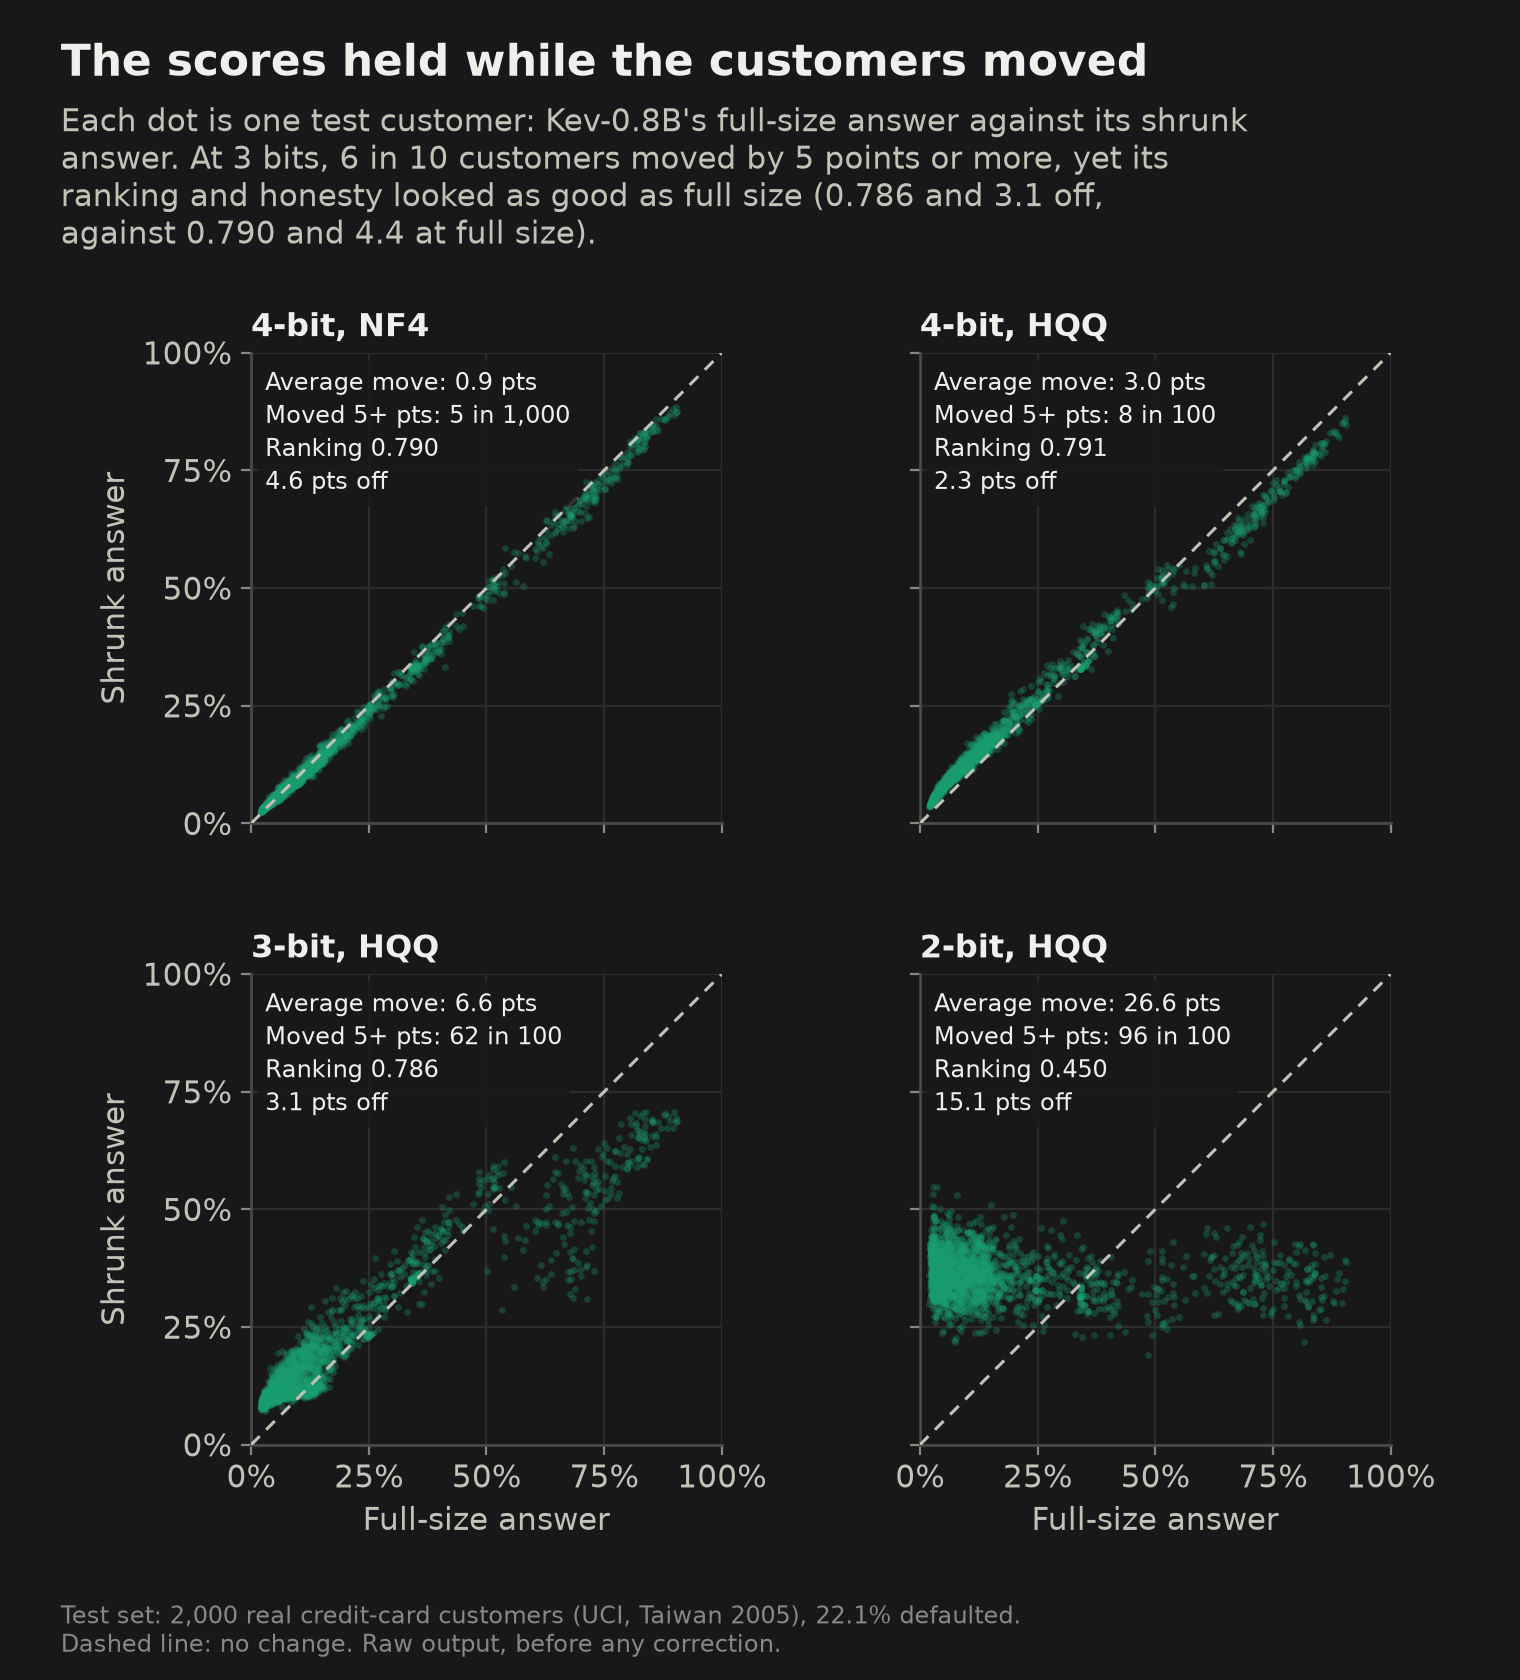
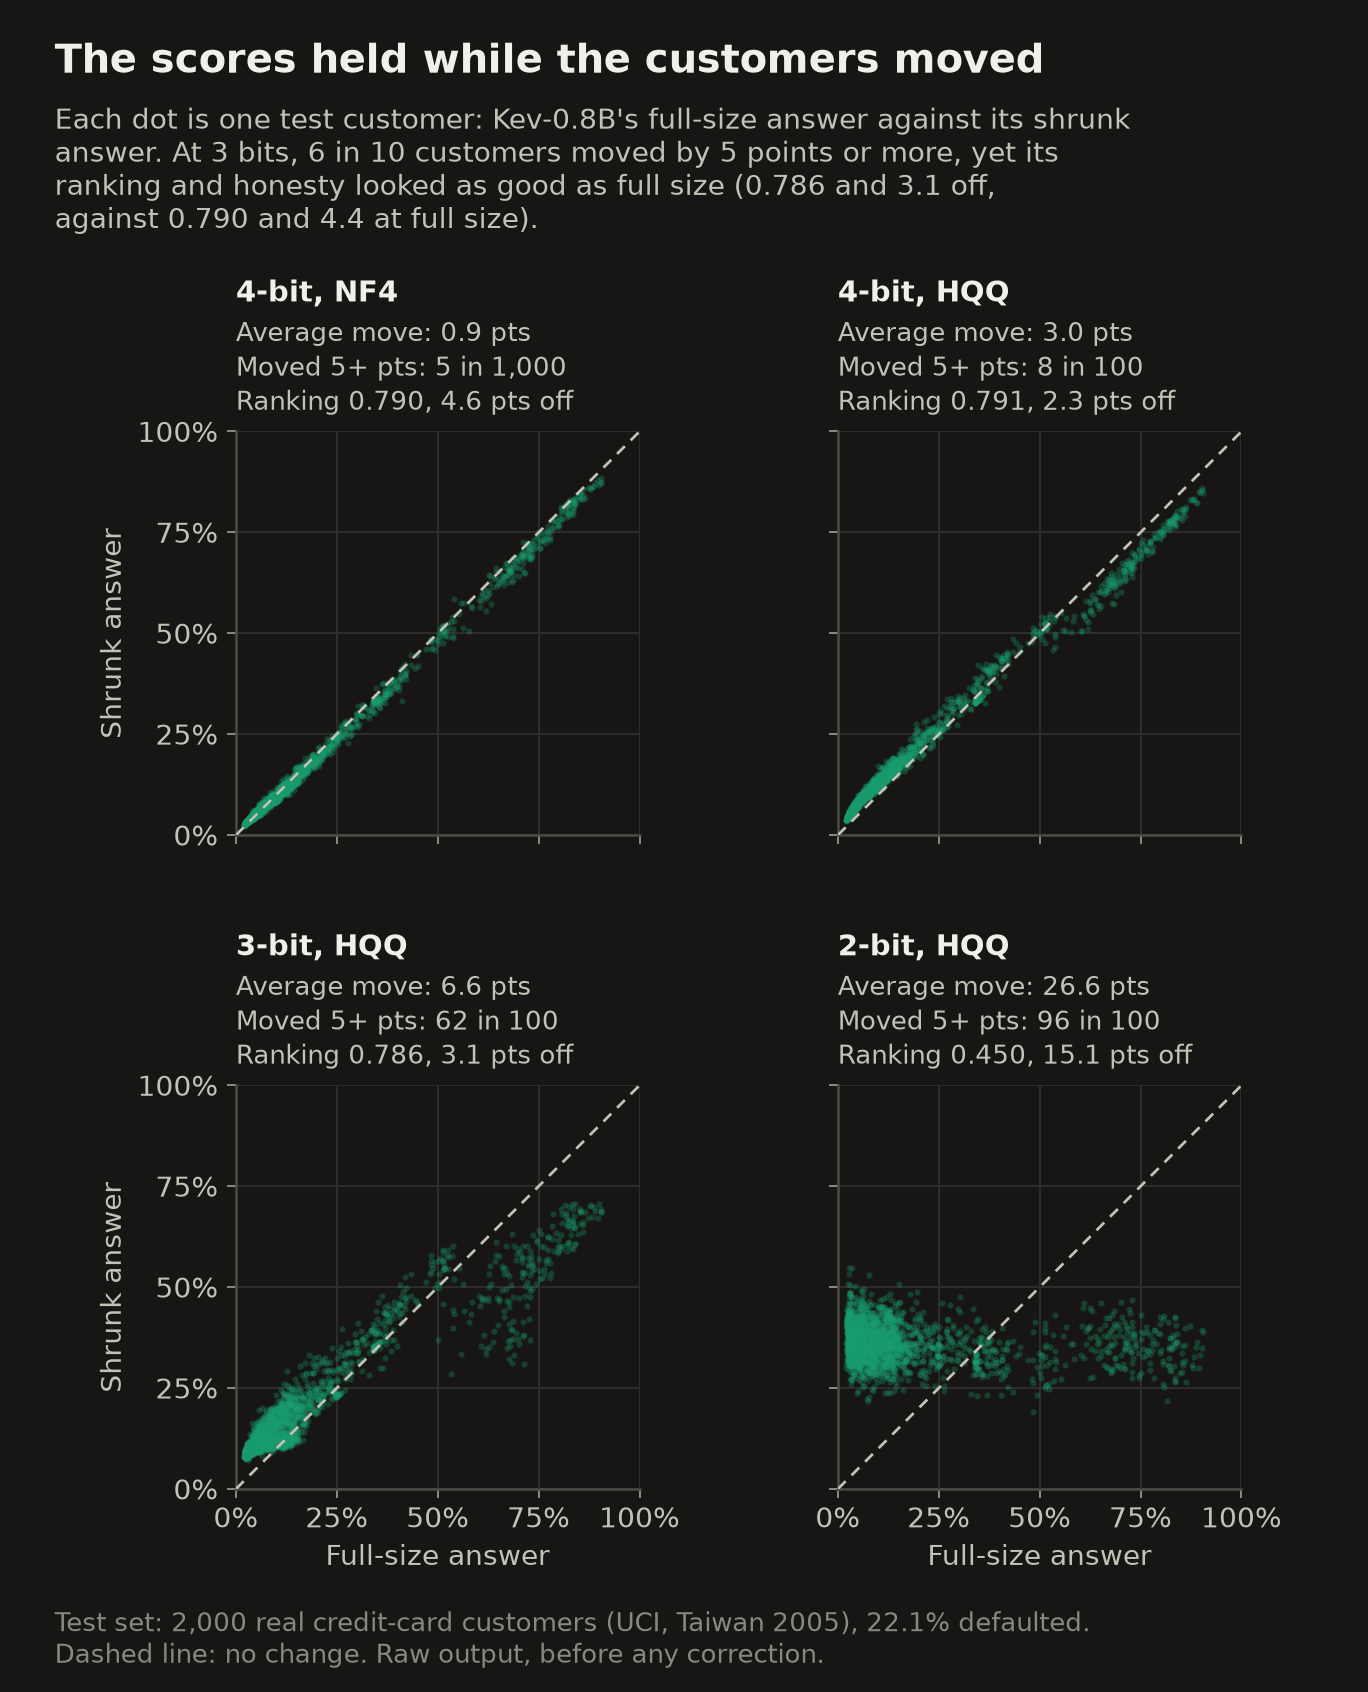
Publish post 4: I shrank AI models. It saved memory, not time.
From the review copy (version 2.1): _posts/2026-11-27-shrinking-ai-models.md
with the charts redrawn for the new design, its social card, contents list and
a drawing (scripts/drawings.py). The review URL now redirects to the post, and
post 3's closing line links to it. Chart sizes updated (scripts/chart_sizes.py).

diff --git a/review/shrinking-ai-models.html b/review/shrinking-ai-models.html
@@ -1,0 +1,18 @@
+---
+layout: null
+permalink: /review/shrinking-ai-models/
+sitemap: false
+---
+<!doctype html>
+<html lang="en">
+<head>
+<meta charset="utf-8">
+<title>Moved: I shrank AI models. It saved memory, not time.</title>
+<link rel="canonical" href="{{ '/2026/11/27/shrinking-ai-models/' | absolute_url }}">
+<meta name="robots" content="noindex">
+<meta http-equiv="refresh" content="0; url=/2026/11/27/shrinking-ai-models/">
+</head>
+<body>
+<p>The review draft is now published: <a href="/2026/11/27/shrinking-ai-models/">I shrank AI models. It saved memory, not time.</a></p>
+</body>
+</html>

diff --git a/_posts/2026-11-27-shrinking-ai-models.md b/_posts/2026-11-27-shrinking-ai-models.md
@@ -1,25 +1,14 @@
 ---
 layout: post
 title: "I shrank AI models. It saved memory, not time."
-date: 2026-11-26
+date: 2026-11-27 12:00:00 +0530
 tags: [probability]
-permalink: /review/shrinking-ai-models/
 description: "I squeezed three trained AI models down to 8, 4, 3 and 2 bits. Their percentages held up to 4 bits. Shrinking saved memory, but rarely time."
-# Review copy: not listed on the home page or in the feed, hidden from search engines and the
-# sitemap, with Hypothesis for comments. To launch, move it to _posts/ and drop these four.
-noindex: true
-sitemap: false
-hypothesis: true
-comments: false
+image: /public/images/shrinking-ai-models/social-card.png
+image_alt: "I shrank AI models. It saved memory, not time. Memory at peak and time per answer, full size against 4 bits (HQQ on GemLite) on a tuned GPU: Kev-4B 8.9 to 3.8 GB and 93 to 83 ms, Kev-0.8B 1.7 to 1.0 GB and 20 to 24 ms, Qwen3.5-4B 8.7 to 3.6 GB and 78 to 85 ms."
+toc: true
+icon: /public/drawings/20261008-171552.jpg
 ---
-
-> **Draft for review, version 2.1 (27 November), not yet published.** Thank you for reading. This is the fourth post in the series, after [Can AI know when it's wrong?](/2026/11/23/can-ai-know-when-its-wrong/), [Why 99% accuracy can still be a disaster](/2026/11/24/why-99-percent-accuracy/) and [I gave AI the same data as a bank's model](/2026/11/25/fair-fight/). It takes the three models trained in the last post and shrinks them to save memory, then checks whether their percentages still come true.
->
-> **New in version 2:** the speed section is re-run on a properly tuned GPU, with two faster 4-bit routes and FP8, and has a new title and chart. The lending-decision table now compares every version at the full-size model's cut-off, and changes in honesty now come with a test of whether they're bigger than chance. Version 2.1 corrects one row of the lending table: running the same model twice changes 0.2% to 1.5% of decisions, depending on the model.
->
-> **To comment, no account needed:** reply to my message and quote the sentence you mean. If you already use [Hypothesis](https://web.hypothes.is/), you can also select text and click **Annotate**.
->
-> I'd most like to know: does the headline ("it saved memory, not time") feel fair given the details, does the section on customers moving while the scores held make sense and matter to you, would you act on the bank advice, and where did you get lost or bored?
 
 *Three trained models, squeezed to 8, 4, 3 and 2 bits. Their percentages held up to 4 bits, but the summary scores hid how far each customer's number moved. And even on a tuned GPU, the smaller models were rarely faster.*
 
@@ -39,7 +28,7 @@ This series checks something else: whether a model's percentages come true. In [
 
 Each small block of numbers gets its own scale, so even at 2 bits the four values differ from block to block. The scales take space too, and some parts of each model stay full size, mostly the table that turns words into numbers. That's why 4 bits saves less than three-quarters of the memory.
 
-![Each trained model's ranking (AUC) at each size. Kev-4B, Kev-0.8B and Qwen3.5-4B stay between 0.780 and 0.792 from full size down to 4 bits, with either tool, all within 0.005 of their full-size scores and above the scorecard's 0.777. At 3 bits, Kev-0.8B (0.786) and Qwen (0.779) show no drop the test can detect and Kev-4B slips to 0.776. At 2 bits, Kev-4B falls to 0.60, Kev-0.8B to 0.45 and Qwen to 0.43, the last two worse than a coin flip.](/public/images/shrinking-ai-models/post4_ranking.png){: data-dark-src="/public/images/shrinking-ai-models/post4_ranking-dark.png"}
+{% include chart.html src="/public/images/shrinking-ai-models/post4_ranking.png" alt="Each trained model's ranking (AUC) at each size." words="Kev-4B, Kev-0.8B and Qwen3.5-4B stay between 0.780 and 0.792 from full size down to 4 bits, with either tool, all within 0.005 of their full-size scores and above the scorecard's 0.777. At 3 bits, Kev-0.8B (0.786) and Qwen (0.779) show no drop the test can detect and Kev-4B slips to 0.776. At 2 bits, Kev-4B falls to 0.60, Kev-0.8B to 0.45 and Qwen to 0.43, the last two worse than a coin flip." eager=true %}
 
 ## Three models, six versions
 
@@ -66,7 +55,7 @@ The chart above tells it:
 
 Ranking is half the job. The other half is whether a model's percentages come true. I measure that as before: the average gap, in percentage points, between the risk a model promised and what happened ([calibration error](https://scikit-learn.org/stable/modules/calibration.html)). With 2,000 customers, a perfectly honest model stays below about 2.5 points in 95 samples out of 100. To tell whether shrinking changed a model's honesty, I compared each shrunk version with its full size on the same customers, again allowing for the 15 comparisons.
 
-![Calibration error at each size, in points. At full size Kev-0.8B is 4.4 points off, Kev-4B 3.8 and Qwen3.5-4B 2.4. At 8 bits and 4-bit NF4, each stays within half a point of that. At 4-bit HQQ, Kev-0.8B improves to 2.3, the only change above 2 bits bigger than chance; Kev-4B is 3.1 and Qwen 3.2. At 3 bits, Kev-4B is 4.8, Kev-0.8B 3.1 and Qwen 1.5. At 2 bits all three are off the scale: Kev-0.8B 15, Kev-4B 20 and Qwen 46 points off.](/public/images/shrinking-ai-models/post4_honesty.png){: data-dark-src="/public/images/shrinking-ai-models/post4_honesty-dark.png"}
+{% include chart.html src="/public/images/shrinking-ai-models/post4_honesty.png" alt="Calibration error at each size, in points." words="At full size Kev-0.8B is 4.4 points off, Kev-4B 3.8 and Qwen3.5-4B 2.4. At 8 bits and 4-bit NF4, each stays within half a point of that. At 4-bit HQQ, Kev-0.8B improves to 2.3, the only change above 2 bits bigger than chance; Kev-4B is 3.1 and Qwen 3.2. At 3 bits, Kev-4B is 4.8, Kev-0.8B 3.1 and Qwen 1.5. At 2 bits all three are off the scale: Kev-0.8B 15, Kev-4B 20 and Qwen 46 points off." %}
 
 - **8 bits and 4-bit NF4 changed almost nothing.** Every model stayed within half a point of its full-size honesty.
 - **4-bit HQQ made one model more honest, by more than chance.** Kev-0.8B went from 4.4 points off to 2.3. Shrinking nudged its average answer up from 18.1% to 19.9%, toward the 22.1% who actually defaulted (the last post found Kev understates risk). Nobody chose that direction: it's a side effect of rounding. For scale, retraining Kev-0.8B from a different random start in the last post gave an average of 20.0% and 3.0 points off, much the same.
@@ -80,7 +69,7 @@ One twist at 2 bits. Apply the same correction as in the last post, learned from
 
 So far, so reassuring, at least down to 4 bits. But ranking and calibration error are summary scores, and summaries can hide a lot, the way a compressed photo looks fine from across the room. Here is each test customer's answer from Kev-0.8B, full size against shrunk:
 
-![Each dot is one test customer: Kev-0.8B's full-size answer against its shrunk answer, in four panels. At 4-bit NF4 the dots hug the no-change line: the average customer moved 0.9 points and 5 in 1,000 moved 5 points or more. At 4-bit HQQ, 3.0 points, and 8 in 100 moved 5 or more. At 3 bits, 6.6 points, and 62 in 100 moved 5 or more, with low answers pushed up and high answers pulled down, yet ranking 0.786 and 3.1 points off, against 0.790 and 4.4 at full size. At 2 bits the dots form a flat band between about 20% and 55% whatever the full-size answer, 26.6 points on average.](/public/images/shrinking-ai-models/post4_drift.png){: data-dark-src="/public/images/shrinking-ai-models/post4_drift-dark.png"}
+{% include chart.html src="/public/images/shrinking-ai-models/post4_drift.png" alt="Each dot is one test customer: Kev-0.8B's full-size answer against its shrunk answer, in four panels." words="At 4-bit NF4 the dots hug the no-change line: the average customer moved 0.9 points and 5 in 1,000 moved 5 points or more. At 4-bit HQQ, 3.0 points, and 8 in 100 moved 5 or more. At 3 bits, 6.6 points, and 62 in 100 moved 5 or more, with low answers pushed up and high answers pulled down, yet ranking 0.786 and 3.1 points off, against 0.790 and 4.4 at full size. At 2 bits the dots form a flat band between about 20% and 55% whatever the full-size answer, 26.6 points on average." %}
 
 - **At 4-bit NF4, the answers barely moved:** less than a point for the average customer.
 - **At 3 bits, 6 in 10 customers' answers moved by 5 points or more.** Yet Kev-0.8B's ranking (0.786) and calibration error (3.1 points off) looked as good as at full size. Its safest customers were pushed up and its riskiest pulled down: the answers were squeezed toward the middle, mostly in the same order, with the average still roughly right.
@@ -119,7 +108,7 @@ So I rented the GPU again and set it up the way you would before deploying:
 - **The same 4-bit HQQ numbers on two faster routes:** GemLite, a library built for fast low-bit maths, and PyTorch's own 4-bit route.
 - **FP8,** where the GPU does its arithmetic in 8 bits, not just stores the numbers that way. The L4 has hardware for it, and it needs no data either.
 
-![GPU memory at peak and time per answer, one customer at a time, on the tuned setup. Memory: the 4B models need 8.7 to 8.9 GB at full size and 3.5 to 3.9 GB at 4 bits; Kev-0.8B 1.7 GB and about 1 GB; Qwen with FP8 5.1 GB. Time per answer at full size: 20 ms for Kev-0.8B, 93 for Kev-4B and 78 for Qwen, down from 62, 111 and 120 in my first runs. 4-bit NF4: 23, 131 and 109 ms, down from 81, 139 and 152. 4-bit HQQ on GemLite: 24, 83 and 85 ms. On PyTorch's 4-bit route: 39 ms for Kev-0.8B and 242 for Kev-4B; Qwen wouldn't load. FP8: 77 ms for Qwen; both Kev models gave no answers.](/public/images/shrinking-ai-models/post4_cost.png){: data-dark-src="/public/images/shrinking-ai-models/post4_cost-dark.png"}
+{% include chart.html src="/public/images/shrinking-ai-models/post4_cost.png" alt="GPU memory at peak and time per answer, one customer at a time, on the tuned setup." words="Memory: the 4B models need 8.7 to 8.9 GB at full size and 3.5 to 3.9 GB at 4 bits; Kev-0.8B 1.7 GB and about 1 GB; Qwen with FP8 5.1 GB. Time per answer at full size: 20 ms for Kev-0.8B, 93 for Kev-4B and 78 for Qwen, down from 62, 111 and 120 in my first runs. 4-bit NF4: 23, 131 and 109 ms, down from 81, 139 and 152. 4-bit HQQ on GemLite: 24, 83 and 85 ms. On PyTorch's 4-bit route: 39 ms for Kev-0.8B and 242 for Kev-4B; Qwen wouldn't load. FP8: 77 ms for Qwen; both Kev models gave no answers." %}
 
 - **Memory fell as promised.** At 4 bits the two 4B models needed 3.5 to 3.9 GB at peak instead of 8.7 to 8.9, less than half.
 - **Tuning the setup mattered more than shrinking.** At full size, Kev-0.8B went from 62 milliseconds per answer to 20, Qwen from 120 to 78 and Kev-4B from 111 to 93. (The first runs timed answers during scoring, the new ones in a separate timing run, so take those gaps as rough.)

diff --git a/_posts/2026-11-25-fair-fight.md b/_posts/2026-11-25-fair-fight.md
@@ -138,4 +138,4 @@ Before any of these runs, I wrote down what I expected, judged on raw output:
 
 ## What's next
 
-Every number, the code, [the trained models' weights](https://github.com/nishzsche/can-ai-know-when-its-wrong/releases/tag/m6-weights), the training logs and every prediction are on [GitHub](https://github.com/nishzsche/can-ai-know-when-its-wrong). This series started with [whether AI can know when it's wrong](/2026/11/23/can-ai-know-when-its-wrong/) and [why 99% accuracy can still be a disaster](/2026/11/24/why-99-percent-accuracy/). Next: does shrinking a model to save money make it less honest? I'll take the models trained here and squeeze them to a quarter of their size. And the sequel I promised in the first post, teaching a small model to say "I don't know", is still coming.
+Every number, the code, [the trained models' weights](https://github.com/nishzsche/can-ai-know-when-its-wrong/releases/tag/m6-weights), the training logs and every prediction are on [GitHub](https://github.com/nishzsche/can-ai-know-when-its-wrong). This series started with [whether AI can know when it's wrong](/2026/11/23/can-ai-know-when-its-wrong/) and [why 99% accuracy can still be a disaster](/2026/11/24/why-99-percent-accuracy/). Next: [does shrinking a model to save money make it less honest?](/2026/11/27/shrinking-ai-models/) I'll take the models trained here and squeeze them to a quarter of their size. And the sequel I promised in the first post, teaching a small model to say "I don't know", is still coming.
